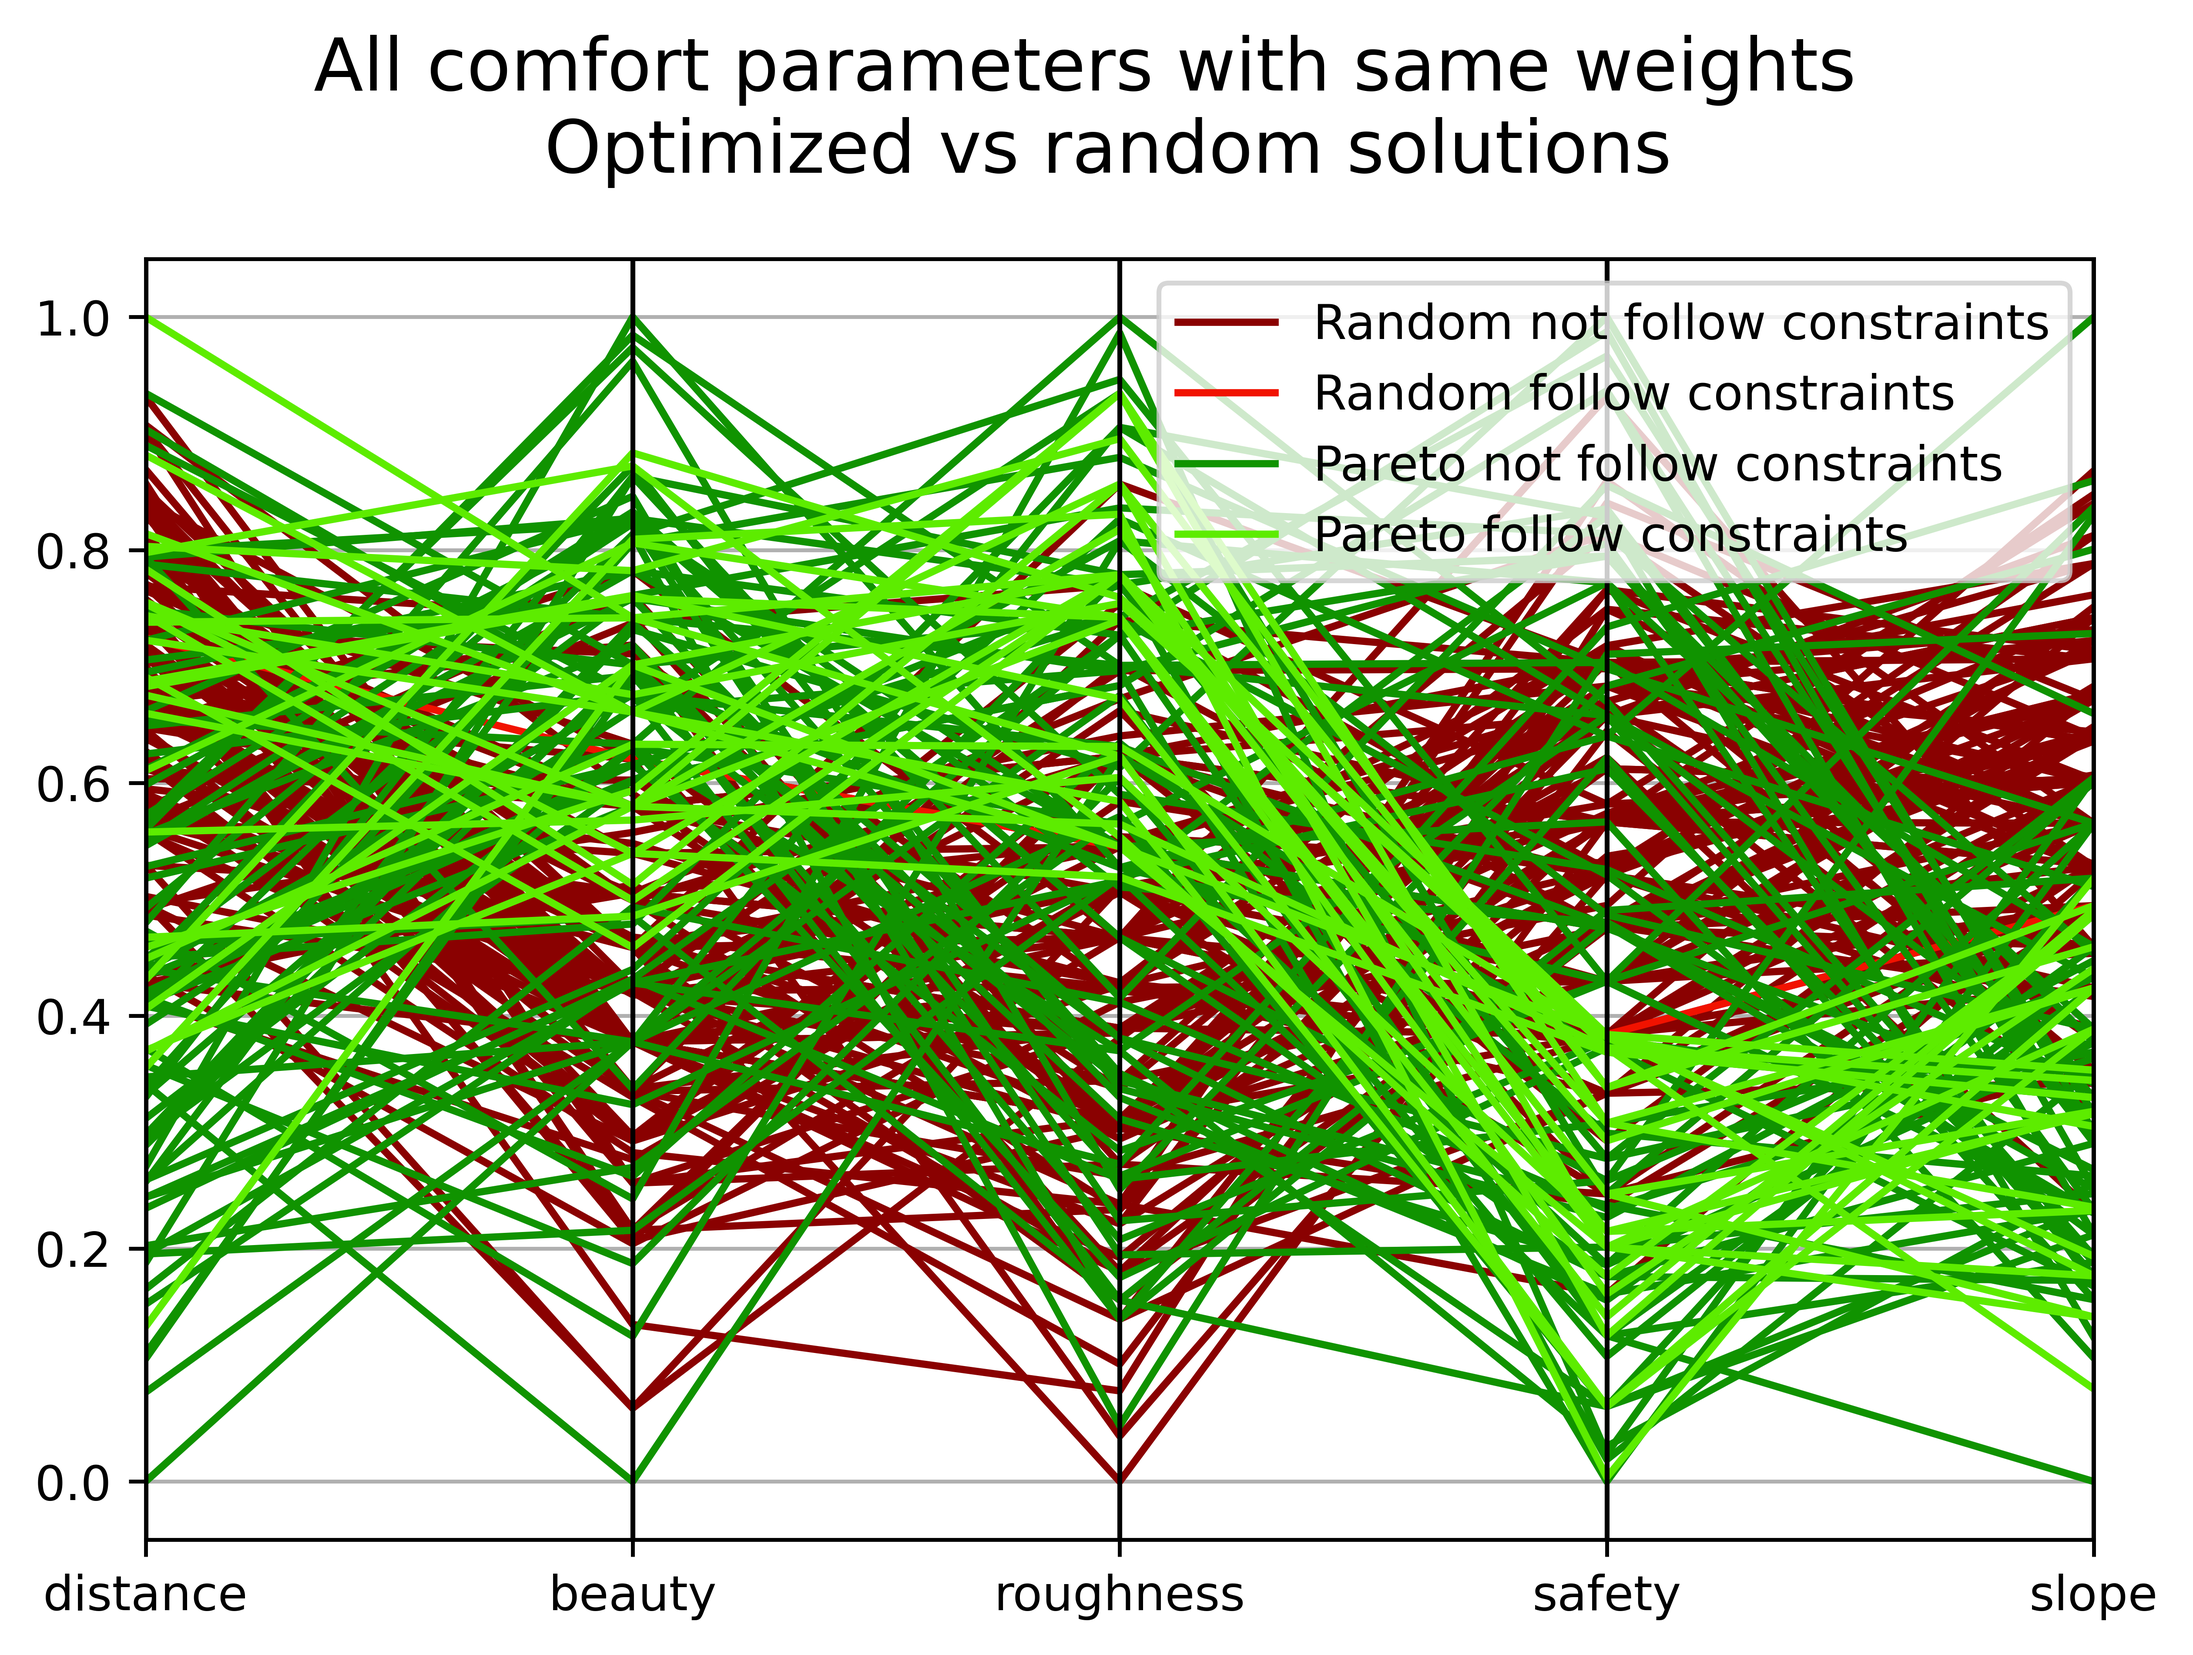
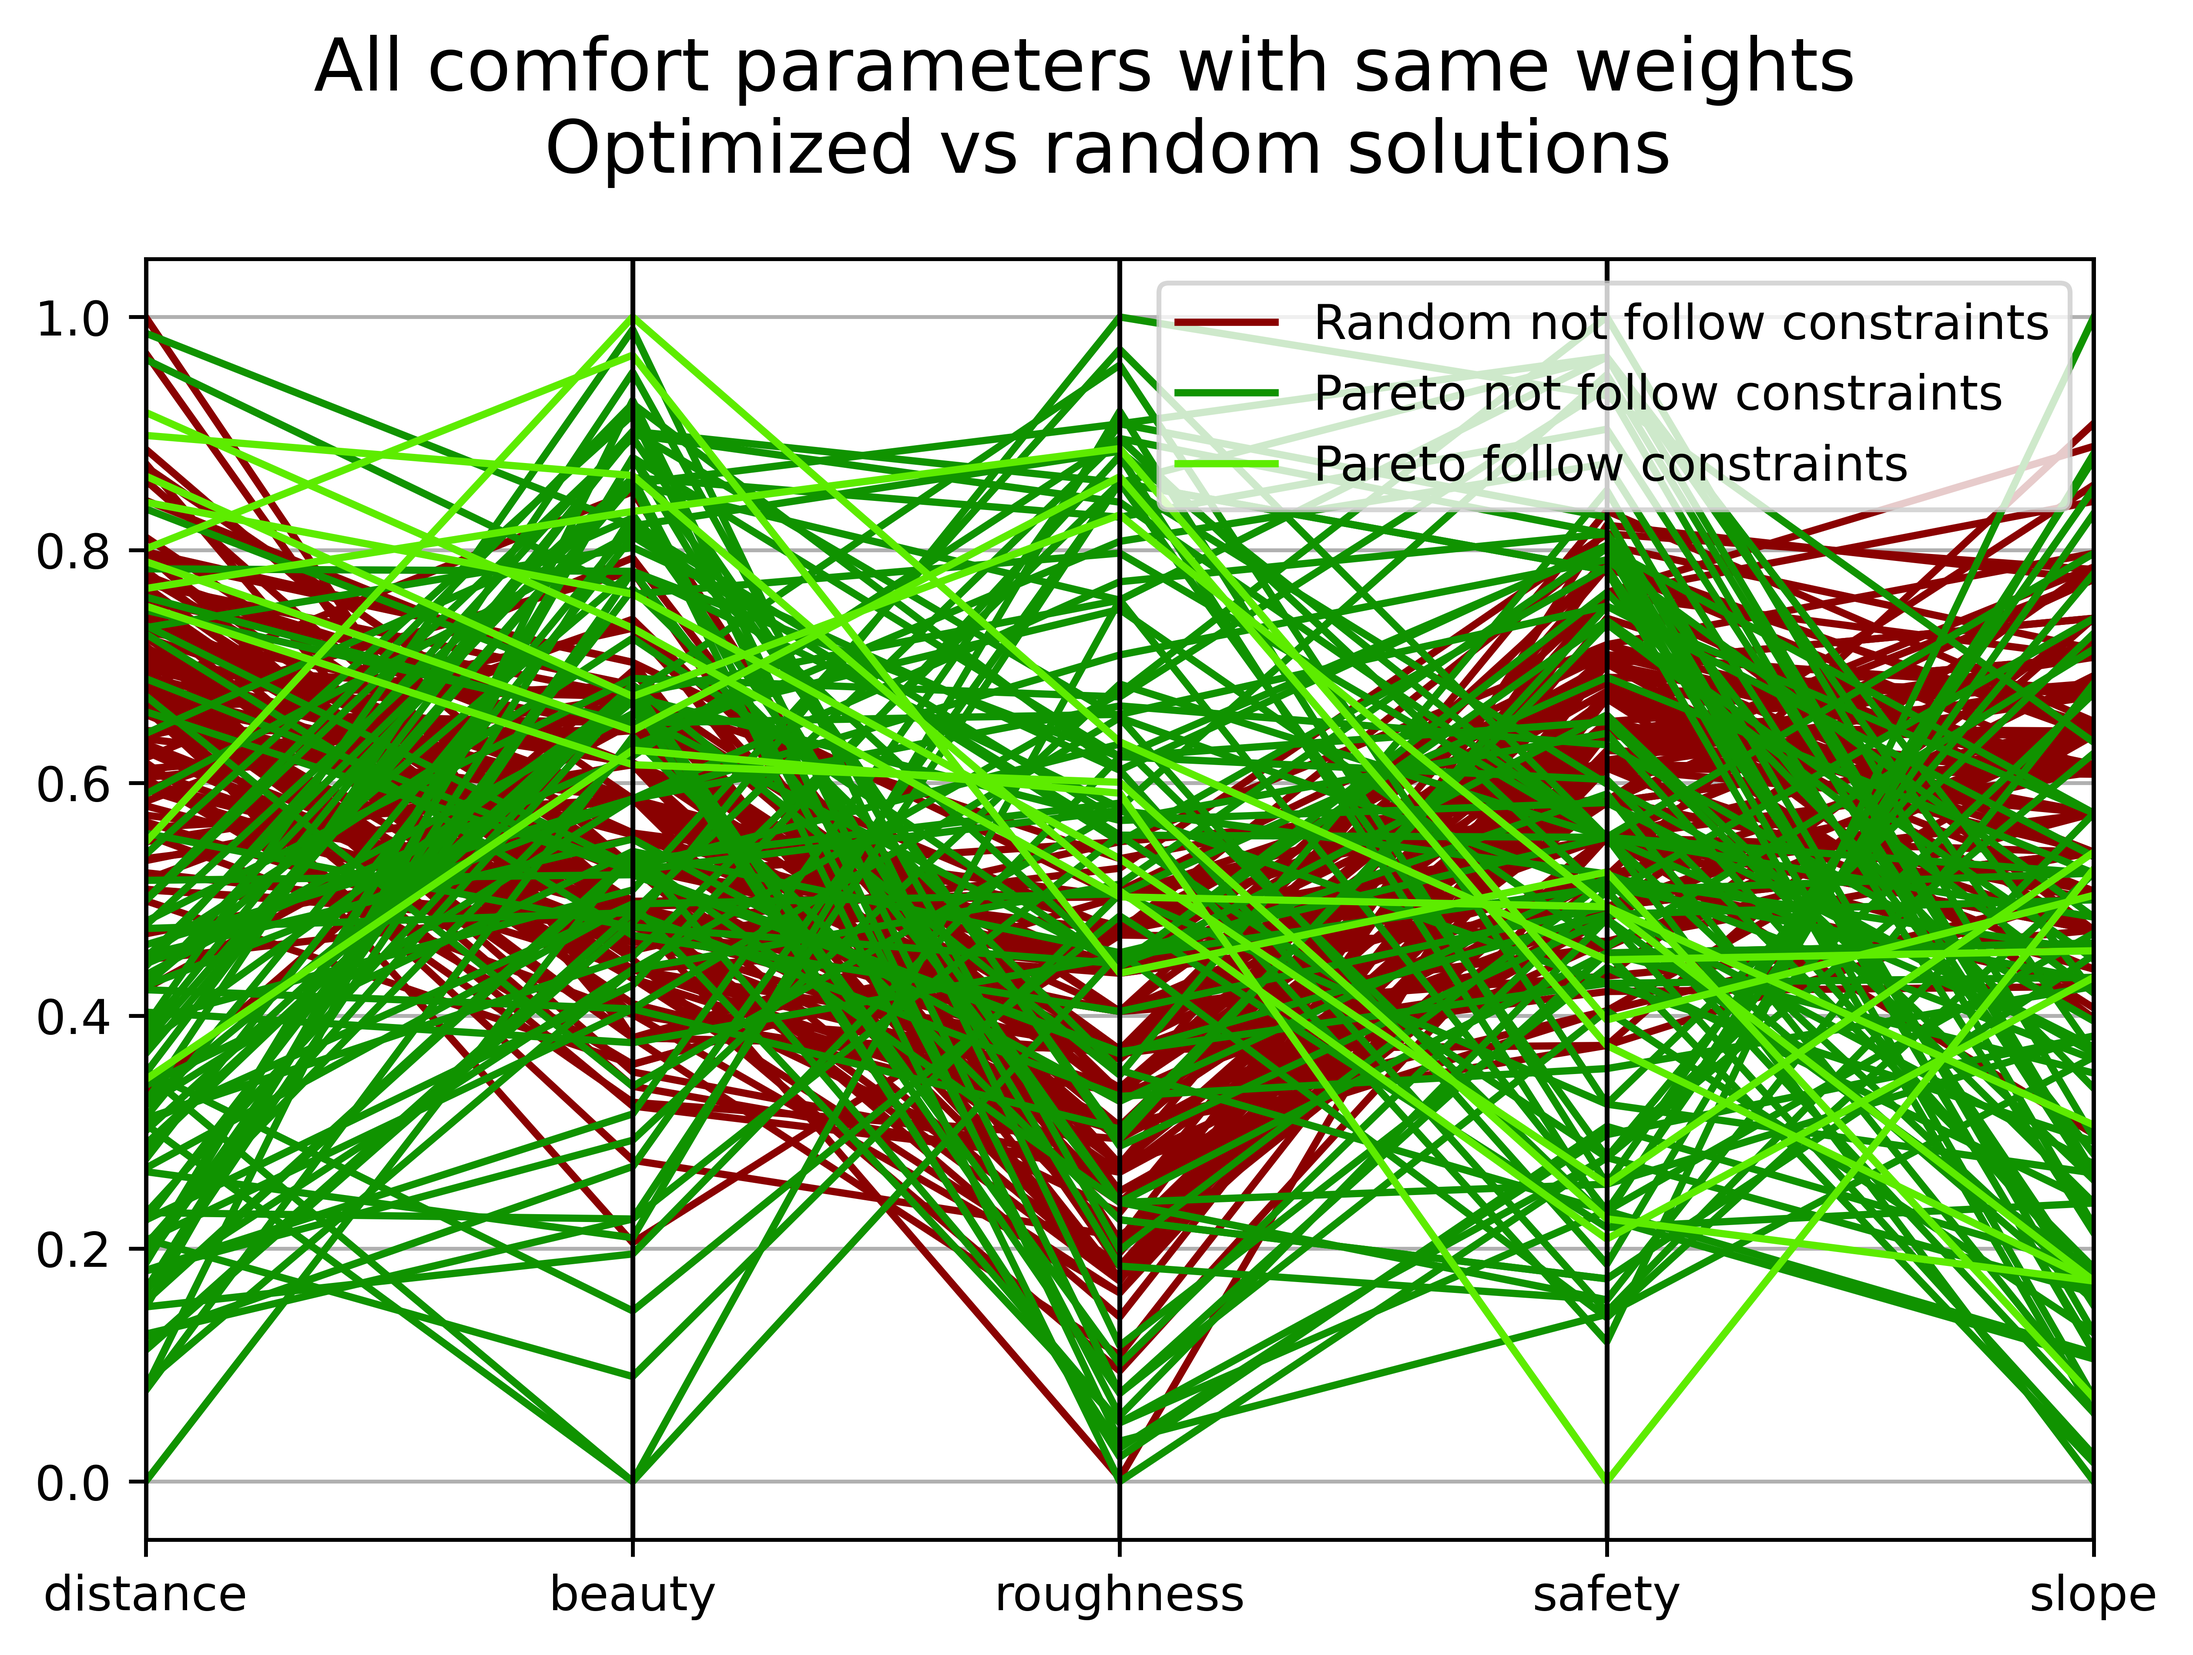
last before commenting

diff --git a/plots.py b/plots.py
@@ -24,8 +24,6 @@ def create_random_samples(bicycle_problem, variable_count, obj_weights=np.ones(5
     return var_random, obj_random
 
 def plot_nominal_config(constraints, variable_count, nodes_num, pfront):
-
-    # obj_weights = np.ones(5, dtype=int)
     obj_weights = np.array([1,50,50,50,50])
 
     problem, population = create_bicycle_problem(constraints.copy(), obj_weights, variable_count, nodes_num)
@@ -38,7 +36,7 @@ def plot_different_weights(constraints, variable_count, nodes_num, pfront):
     obj_weights = np.array([1,100,1,100,1])
 
     problem, population = create_bicycle_problem(constraints.copy(), obj_weights, variable_count, nodes_num)
-    var_optimized, obj_optimized = optimize_problem(problem, population, pfront, obj_weights)
+    var_optimized, obj_optimized = optimize_problem(population, pfront, obj_weights)
     var_random, obj_random = create_random_samples(problem, variable_count, obj_weights)
     scatter_plot(obj_optimized, obj_random, "diff_weights_scatter")
     parallel_plot(var_optimized, var_random, obj_optimized, obj_random, constraints, obj_weights, "diff_weights_parallel")
@@ -48,14 +46,13 @@ def plot_2obj(constraints, variable_count, nodes_num, pfront):
     obj_weights = np.ones(5)
     problem, population = create_bicycle_problem(constraints.copy(), obj_weights, variable_count, nodes_num)
     var_random, obj_random = create_random_samples(problem, variable_count, obj_weights)
-    # obj_weights = np.ones(5, dtype=int)
     vars_optimized = []
     objs_optimized = []
     for i in range(1, 5):
         obj_weights = np.array([1,0,0,0,0])
         obj_weights[i] = 1
         problem, population = create_bicycle_problem(constraints.copy(), obj_weights, variable_count, nodes_num)
-        var_optimized, obj_optimized = optimize_problem(problem, population, pfront, obj_weights)
+        var_optimized, obj_optimized = optimize_problem(population, pfront, obj_weights)
         vars_optimized.append(var_optimized)
         objs_optimized.append(obj_optimized)
     parallel_plot_2obj(vars_optimized, var_random, objs_optimized, obj_random, constraints, "1v1_parallel")
@@ -66,7 +63,7 @@ def plot_sizes(constraints, variable_count, pfront):
     obj_weights = np.array([1,50,50,50,50])
 
     problem, population = create_bicycle_problem(constraints.copy(), obj_weights, variable_count, nodes_num)
-    var_optimized, obj_optimized = optimize_problem(problem, population, pfront, obj_weights)
+    var_optimized, obj_optimized = optimize_problem(population, pfront, obj_weights)
     var_random, obj_random = create_random_samples(problem, variable_count, obj_weights)
     scatter_plot(obj_optimized, obj_random, "small_scatter")
     parallel_plot(var_optimized, var_random, obj_optimized, obj_random, constraints, obj_weights, "small_parallel")

diff --git a/bicycle_routing.py b/bicycle_routing.py
@@ -9,14 +9,14 @@ warnings.filterwarnings("ignore")
 from problem import BicycleProblem
 
 def create_bicycle_problem(constraints, obj_weights=np.ones(5), variable_count: int = 20, 
-                           nodes_num: int = 10, pfront: bool = True, pop_size=100, retrieve_from_dataset=True):
+                           nodes_num: int = 10, pfront: bool = True, pop_size=100, retrieve_from_dataset=False):
     if retrieve_from_dataset:
         dataset_path = './dataset/'
         distance_matrix = pd.read_csv(dataset_path+'distance_matrix.csv', sep=',', header=None).to_numpy()
         beauty_matrix = pd.read_csv(dataset_path+'beauty_matrix.csv', sep=',', header=None).to_numpy()
         roughness_matrix = pd.read_csv(dataset_path+'roughness_matrix.csv', sep=',', header=None).to_numpy()
         safety_matrix = pd.read_csv(dataset_path+'safety_matrix.csv', sep=',', header=None).to_numpy()
-        slope_matrix = pd.read_csv(dataset_path+'safety_matrix.csv', sep=',', header=None).to_numpy()
+        slope_matrix = pd.read_csv(dataset_path+'slope_matrix.csv', sep=',', header=None).to_numpy()
     else:
         distance_matrix = symmetric_matrix(np.random.uniform(0, 5, size=(variable_count+1, variable_count+1)))
         beauty_matrix = symmetric_matrix(np.random.randint(1, 5, size=(variable_count+1, variable_count+1)), integers=True)
@@ -34,7 +34,7 @@ def create_bicycle_problem(constraints, obj_weights=np.ones(5), variable_count: 
 def optimize_problem(population, pfront = True, obj_weights=np.ones(5)):
     evolver = NSGAIII(problem=None,
                     initial_population=population,
-                    n_iterations=1,
+                    n_iterations=200,
                     n_gen_per_iter=100,
                     population_size=100)
 

diff --git a/problem.py b/problem.py
@@ -29,6 +29,7 @@ class BicycleProblem:
     # Defining the objective functions
 
     def total_metric(self, path, metric, inverse=False, average=True):
+        # Keep track of which interest nodes have not been visited yet
         goal_nodes_copy = self.create_goal_nodes_array(len(path))
         matrix_str = metric + "_matrix"
         matrix = getattr(self, matrix_str)
@@ -39,12 +40,14 @@ class BicycleProblem:
             goal_nodes_copy[np.arange(len(path)), path[:, i]-1] = 0
             mask = np.zeros(path.shape[0], dtype=matrix.dtype)
             mask[np.where(np.sum(goal_nodes_copy, axis=1))] = 1
+            # The route is finished once all interest nodes are visited
             length += mask
             if np.sum(mask) == 0:
                 break
             if not inverse:
                 total += matrix[path[:, i],path[:, i+1]] * mask
             else:
+                # Invert the comfort value to maximize all of them
                 total += (6-matrix[path[:, i],path[:, i+1]]) * mask
         if average:
             total = total / length
@@ -170,8 +173,7 @@ class BicycleProblem:
             use_scipy=True
         )
 
-        # Calculate ideal and nadir points
-        #ideal, nadir = payoff_table_method(problem, solver_method=scipy_de_method)
+        # Ideal and nadir points
         ideal = np.array([0, 5, 5, 5, 5])[range(len(obj_weights))]
         nadir = np.array([np.inf, 1, 1, 1, 1])[range(len(obj_weights))]
 

diff --git a/utils.py b/utils.py
@@ -76,8 +76,6 @@ def check_constraints(path, obj, constraints, mask=[True]*5):
             value = obj[:,i]
             if m == "safety" or m == "slope":
                 value = 6 - value
-            # bicycle_problem.total_metric(path, m, average=(m!="distance"), 
-                                                #  inverse=((m=="safety") or (m=="slope")))
             if constraints[i][0] is not None:
                 all_good = all_good & (value > constraints[i][0])
             if constraints[i][1] is not None:
@@ -195,4 +193,3 @@ def parallel_plot_2obj(vars_optimized, var_random,
     fig.tight_layout(pad=3.0)
     fig.legend(all_handles, all_labels, loc='upper center', bbox_to_anchor=(0.5, 0))
     fig.savefig("plots/" + name + ".png", dpi=800, bbox_inches='tight')
-    # fig.savefig("plots/" + name + ".png", dpi=800)

diff --git a/operators.py b/operators.py
@@ -48,14 +48,3 @@ class Crossover:
                     pop_copy[shuffled_ids[i]][xover_points[k]] = tmp
                     k += 1
         return pop_copy
-
-
-# class SurrogatePopulation(Population, BasePopulation):
-#     def __init__(
-#         self, problem, pop_size: int, initial_pop, xover, mutation, recombination
-#     ):
-#         BasePopulation.__init__(self, problem, pop_size)
-#         self.add(initial_pop)
-#         self.xover = xover
-#         self.mutation = mutation
-#         self.recombination = recombination
